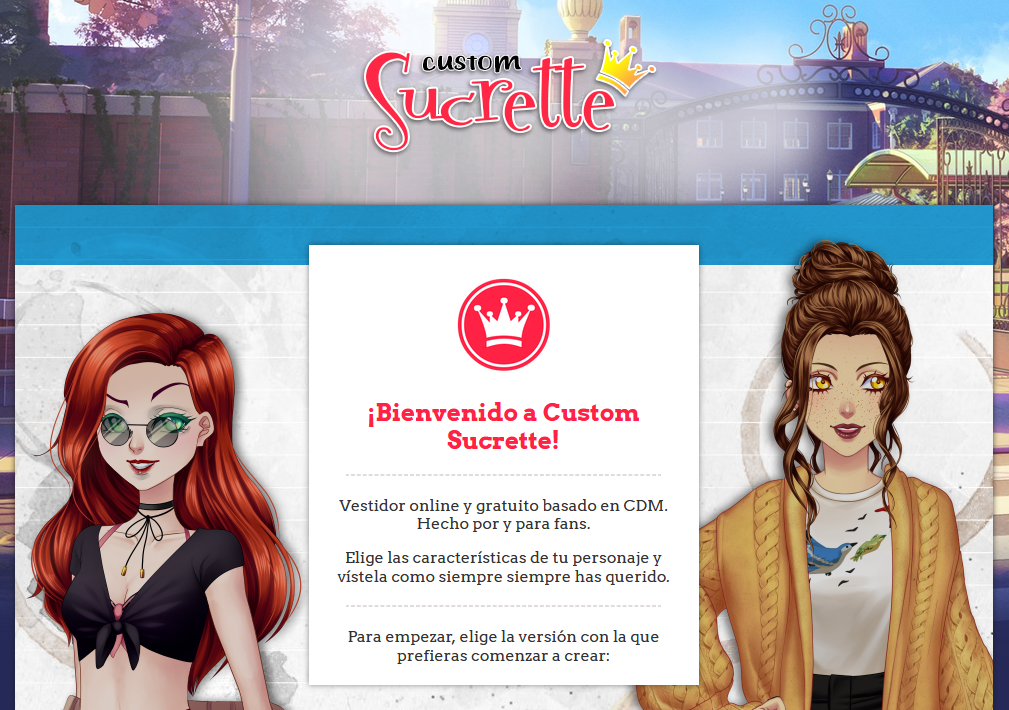
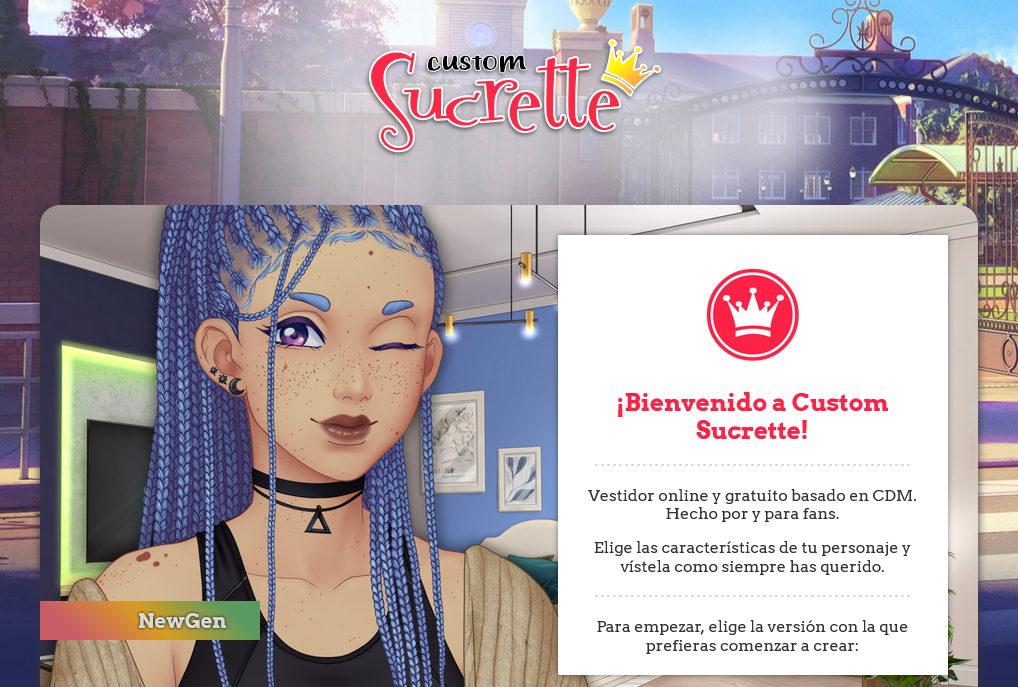
new home

diff --git a/index.html b/index.html
@@ -4,48 +4,18 @@
     <meta charset="UTF-8">
     <meta http-equiv="X-UA-Compatible" content="IE=edge">
     <meta name="viewport" content="width=1200, shrink-to-fit=no">
+    <meta name="mobile-web-app-capable" content="yes">
     <link rel="icon" href="assets/favicon-w.png" type="image/png">
     <link href="https://fonts.googleapis.com/css2?family=Arvo:wght@400;700&display=swap" rel="stylesheet">
 
     <link rel="stylesheet" href="https://cdnjs.cloudflare.com/ajax/libs/font-awesome/4.7.0/css/font-awesome.min.css">
-    <script src="https://ajax.googleapis.com/ajax/libs/jquery/3.4.1/jquery.min.js"></script>
-    <script type="text/javascript" src="js/protocol.js"></script>
-    <script type="text/javascript">
-        $(document).ready(function() {
-            const cv1 = new XMLHttpRequest();cv1.open("GET", "data/v1/clothe.json");
-            cv1.responseType = "json";cv1.send();cv1.onload = function() {
-                const cv2 = new XMLHttpRequest();cv2.open("GET", "data/v2/clothe.json");
-                cv2.responseType = "json";cv2.send();cv2.onload = function() {
-                    clothe1 = cv1.response;
-                    clothe2 = cv2.response;
-
-                    var counter = '<div class="main">Prendas disponibles totales: <span class="color-primary">' + (clothe1.length + clothe2.length) 
-                                + '</span>.</div><div class="sub">(<span class="color-primary">' + clothe1.length + '</span> en Instituto. <span class="color-primary">' 
-                                + clothe2.length + '</span> en Universidad/Amor)</div>';
-
-                    $("#home-bottom .infos").html(counter);
-                };
-            };
-
-        });
-    </script>
-
     <link rel="stylesheet" href="v2/styles/wardrobe.css">
     <link rel="stylesheet" href="styles/general.css">
     <link rel="stylesheet" href="styles/home.css">
     <title>Custom Sucrette - Crea y personaliza a la Sucrette de tus sueños</title>
     <meta property="og:image" content="assets/meta/image.png" />
     <meta property="og:description" content="Vestidor online y gratuito basado en Corazón de Melón. Hecho por y para fans." />
-    
-    <!-- Global site tag (gtag.js) - Google Analytics -->
-    <script async src="https://www.googletagmanager.com/gtag/js?id=G-JW74RBLL7D"></script>
-    <script>
-      window.dataLayer = window.dataLayer || [];
-      function gtag(){dataLayer.push(arguments);}
-      gtag('js', new Date());
 
-      gtag('config', 'G-JW74RBLL7D');
-    </script>
 </head>
 <body class="season-s2">
     <div id="main-wrapper">
@@ -68,39 +38,79 @@
                 </div>-->
                 <div id="pages">
                     <div id="page-sheet-container">
-                        <div class ="header"></div>
-                        <div class="page-sheet-content defaultBackground">
+                        <div class="page-sheet-content">
                             <div id="dashboard-container">
-                                <div class="portrait version1">
-                                    <a href="v1/wardrobe.html">
-                                        <h3><div class="title-container">INSTITUTO</div></h3>
-                                        <img src="assets/img/portrait-v1.png">
+
+
+                                <div class="portrait version3">
+                                    <a href="ng/wardrobe.html">
+                                        <h3><div class="title-container">NewGen</div></h3>
+                                        <img src="assets/img/portrait-v3.png">
                                     </a>
                                 </div>
+
                                 <div class="main center">
                                     <img src="assets/favicon-w.png">
                                     <h2 class="color-primary">¡Bienvenido a Custom Sucrette!</h2>
                                     <span class="separator"></span>
                                     <p>Vestidor online y gratuito basado en CDM. Hecho por y para fans.</p> 
-                                    <p>Elige las características de tu personaje y vístela como siempre siempre has querido.</p>
+                                    <p>Elige las características de tu personaje y vístela como siempre has querido.</p>
                                     <span class="separator"></span>
                                     <p>Para empezar, elige la versión con la que prefieras comenzar a crear:</p>
                                 </div>
-                                <div class="portrait version2">
-                                    <a href="v2/wardrobe.html">
-                                        <h3><div class="title-container">UNIVERSIDAD / AMOR</div></h3>
-                                        <img src="assets/img/portrait-v2.png">
-                                    </a>
+
+                                <div class="double-portrait">
+                                    <div class="portrait version1">
+                                        <a href="v1/wardrobe.html">
+                                            <h3><div class="title-container">INSTITUTO</div></h3>
+                                            <img src="assets/img/portrait-v1.png">
+                                        </a>
+                                    </div><div class="portrait version2">
+                                        <a href="v2/wardrobe.html">
+                                            <h3><div class="title-container">UNIVERSIDAD / AMOR</div></h3>
+                                            <img src="assets/img/portrait-v2.png">
+                                        </a>
+                                    </div>
                                 </div>
                             </div>
                         </div>
                     </div>
                     <div id="home-bottom">
                         <div class="infos">Cargando...</div>
+                        <div class="sub-info">Visita el <a href="https://znfaq.tumblr.com/" target="_blank">BLOG</a> para más información.</div>
                     </div>
                 </div>
             </div>
+            <div id="disclaimer">Hecho por <a href="https://zunaay.github.io/" target="_blank">Zunay</a>. Todo el contenido gráfico utilizado es propiedad de Beemoov y ChiNoMiKo.</div>
         </div>
     </div>
+    
+    <script src="https://ajax.googleapis.com/ajax/libs/jquery/3.4.1/jquery.min.js"></script>
+    <script type="text/javascript" src="js/protocol.js"></script>
+    <script type="text/javascript">
+        $(document).ready(function() {
+            $.get("data/v1/clothe.json", db1 => {
+                $.get("data/v2/clothe.json", db2 => {
+                    $.get("ng/data/cloth.json", db3 => {
+                        let v1 = db1, v2 = db2, ng = db3;
+                        let sum = 0;
+                        for (i = 0; i < ng.length; i++) {
+                            sum += ng[i].variations.length;
+                        };
+
+                        let info = `<div class="main">Prendas disponibles totales: 
+                                        <span class="color-primary">${v1.length + v2.length + sum}</span>.
+                                    </div>
+                                    <div class="sub">(<span class="color-primary">${v1.length}</span> en Instituto. 
+                                        <span class="color-primary">${v2.length}</span> en Universidad/Amor. 
+                                        <span class="color-primary">${sum}</span> en NewGen)</div>`;
+
+                        $("#home-bottom .infos").html(info);
+                    });
+                });
+            });
+
+        });
+    </script>
 </body>
 </html>

diff --git a/styles/home.css b/styles/home.css
@@ -2,6 +2,12 @@
 	background: url(https://www.corazondemelon.es/image/backgrounds/s2/site.jpg) 50% no-repeat;
 }
 
+#page-sheet-container {
+    width: 100%;
+    background-color: transparent;
+    box-shadow: none;
+}
+
 #site-header {
 	height: 205px;
 }
@@ -46,21 +52,36 @@
 
 #dashboard-container {
     position: relative;
-	top: 40px;
-	display: flex;
-	z-index: 2;
+    display: inline-block;
+    z-index: 2;
+    top: 0;
+    padding: 0 20px 20px;
+}
+
+.double-portrait {
+    display: block;
+    margin-top: 30px;
+    position: relative;
 }
 
 .portrait {
-    width: 294px;
+    background-size: cover;
+    border-radius: 20px;
+    box-shadow: 0 0 8px;
+}
+
+.portrait:not(.version3) {
+    width: 48%;
     z-index: -1;
+    display: inline-block;
+    height: 640px;
+    overflow: hidden;
 }
 
 .portrait img {
     position: relative;
-    left: -90px;
-	top: -36px;
-	
+    top: 0;
+    left: -20px;
 }
 
 .portrait a {
@@ -79,6 +100,9 @@
     width: 390px;
     text-align: center;
     height: 440px;
+    position: absolute;
+    right: 50px;
+    top: 30px;
 
 }
 
@@ -97,9 +121,13 @@
 
 .version1 h3 {
 	position: absolute;
-	bottom: 114px;
-	z-index: 0;
-	left: 260px;
+	bottom: 120px;
+	z-index: 1;
+	left: 0;
+}
+
+.title-container {
+    text-shadow: 0px 0 2px #000;
 }
 
 .version1 .title-container {
@@ -111,9 +139,9 @@
 
 .version2 h3 {
 	position: absolute;
-	bottom: 54px;
-	z-index: 0;
-	right: 440px;
+	z-index: 1;
+    bottom: 120px;
+    right: 30px;
 }
 
 .version2 .title-container {
@@ -123,28 +151,65 @@
     min-width: 330px;
 }
 
+.portrait.version1 {
+    float: left;
+    background-image: url(https://www.corazondemelon.es/image/backgrounds/s1/site.png);
+}
 
-.version1 a img, .version1 a h3, .version2 a img, .version2 a h3 {
+.portrait.version2 {
+    float: right;
+    background-image: url(https://www.corazondemelon.es/image/backgrounds/s3/site.jpg);
+}
+
+.portrait.version3 {
+    width: 100%;
+    position: relative;
+    overflow: hidden;
+    height: 500px;
+    background-image: url(../assets/img/bg-v3.png);
+}
+
+.portrait.version3 h3 {
+    position: absolute;
+    bottom: 120px;
+    z-index: 1;
+    width: 220px;
+    text-align: right;
+    padding-right: 20px;
+
+    background: rgb(235,109,122);
+    background: linear-gradient(45deg, rgba(235,109,122,1) 15%, rgba(253,183,39,1) 50%, rgba(106,181,113,1) 85%);
+}
+
+.portrait.version3 img {
+    left: -50px;
+    top: 0;
+    position: relative;
+    width: 108%;
+}
+
+.version1 a img, .version1 a h3, .version2 a img, .version2 a h3, .version3 a img, .version3 a h3 {
     transition: all .2s;
 }
 
-.version1 a:hover img, .version1 a:hover h3, .version2 a:hover img, .version2 a:hover h3 {
+.version1 a:hover img, .version1 a:hover h3, .version2 a:hover img, .version2 a:hover h3, .version3 a:hover img, .version3 a:hover h3 {
     transform: scale(105%);
 }
 
-
 #home-bottom {
-    background: url(https://www.corazondemelon.es/image/home/s2/bottom.jpg);
+    /* background: url(https://www.corazondemelon.es/image/home/s2/bottom.jpg); */
     position: relative;
-    margin-top: 20px;
-    width: 100%;
-    box-shadow: 0 0 4.9px .1px rgba(24,24,24,.73);
+    /* margin-top: 20px; */
+    width: 96%;
+    /* box-shadow: 0 0 4.9px .1px rgba(24,24,24,.73); */
     text-align: center;
+    border-radius: 20px;
+    margin: auto;
+    color: #fff;
 }
 
 #home-bottom .infos {
     width: 100%;
-    /*height: 390px;*/
     position: relative;
     padding: 20px;
 }
@@ -155,4 +220,25 @@
 
 .infos .sub {
     font-size: 15px;
+}
+
+.sub-info a {
+    color: #22a1af;
+}
+
+#disclaimer {
+    position: absolute;
+    bottom: 0;
+    color: #fff;
+    width: calc(100% - 40px);
+    text-align: center;
+    margin: 10px 20px;
+    font-size: 10px;
+    font-size: 8px;
+    text-transform: uppercase;
+    font-family: verdana;
+}
+
+#disclaimer a {
+    color: #46c4d2
 }

diff --git a/ng/wardrobe.html b/ng/wardrobe.html
@@ -4,7 +4,7 @@
     <meta charset="UTF-8">
     <meta name="viewport" content="width=1200">
     <meta name="mobile-web-app-capable" content="yes">
-    <meta property="og:image" content="assets/meta/image.png" />
+    <meta property="og:image" content="../assets/meta/image.png" />
     <meta property="og:description" content="Vestidor online y gratuito basado en Corazón de Melón. Hecho por y para fans." />
 
     <link rel="icon" href="../assets/favicon-w.png" type="image/png">

diff --git a/js/protocol.js b/js/protocol.js
@@ -1,5 +1,5 @@
 $(document).ready(function() {
-    drawPopUpNewGen();
+    //drawPopUpNewGen();
 });
 
 if (location.protocol != 'https:') {
